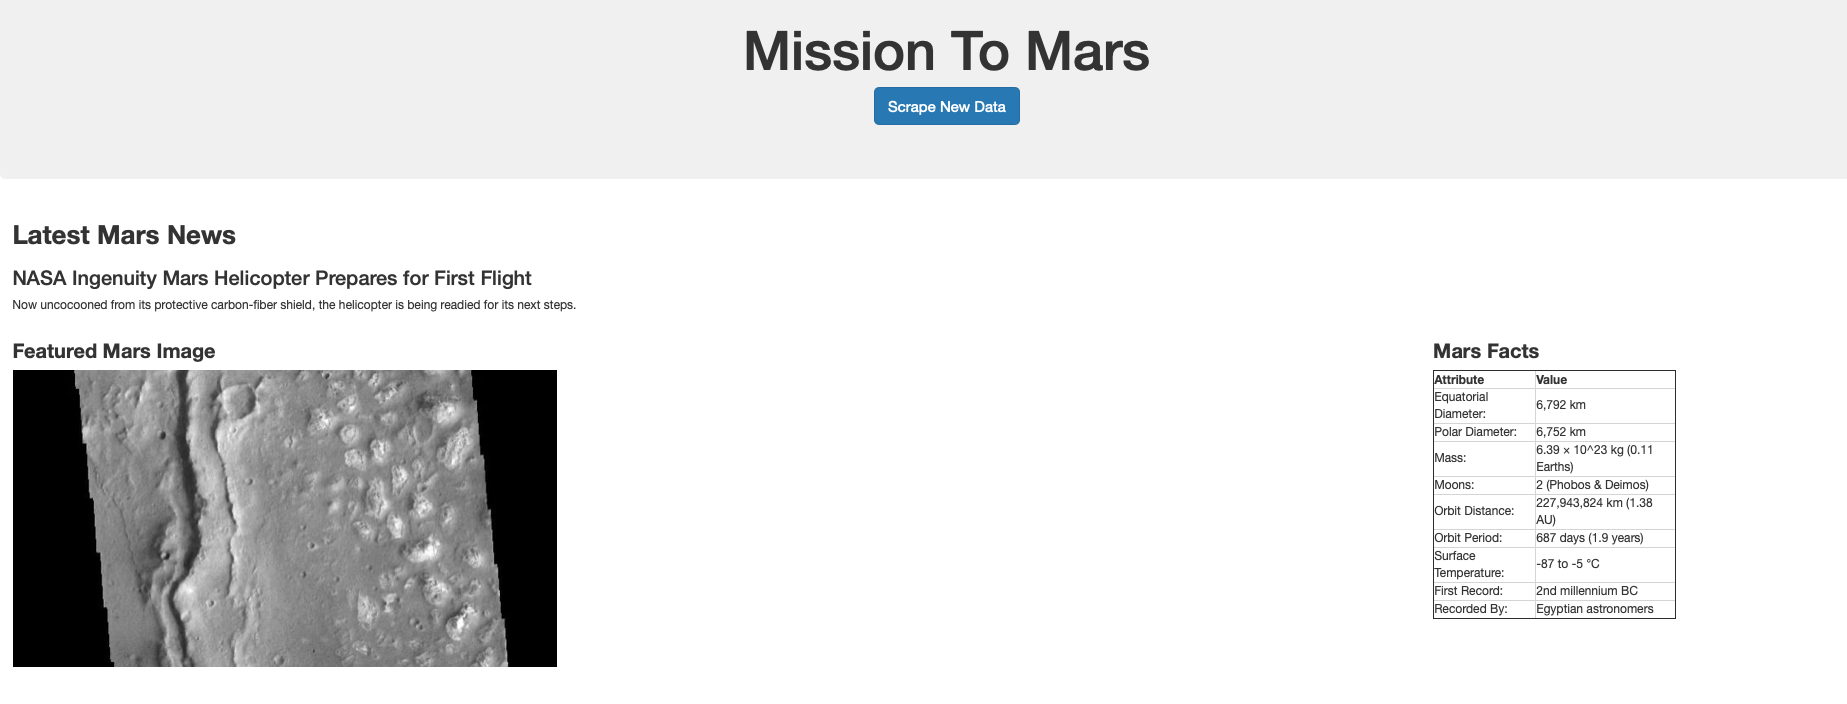
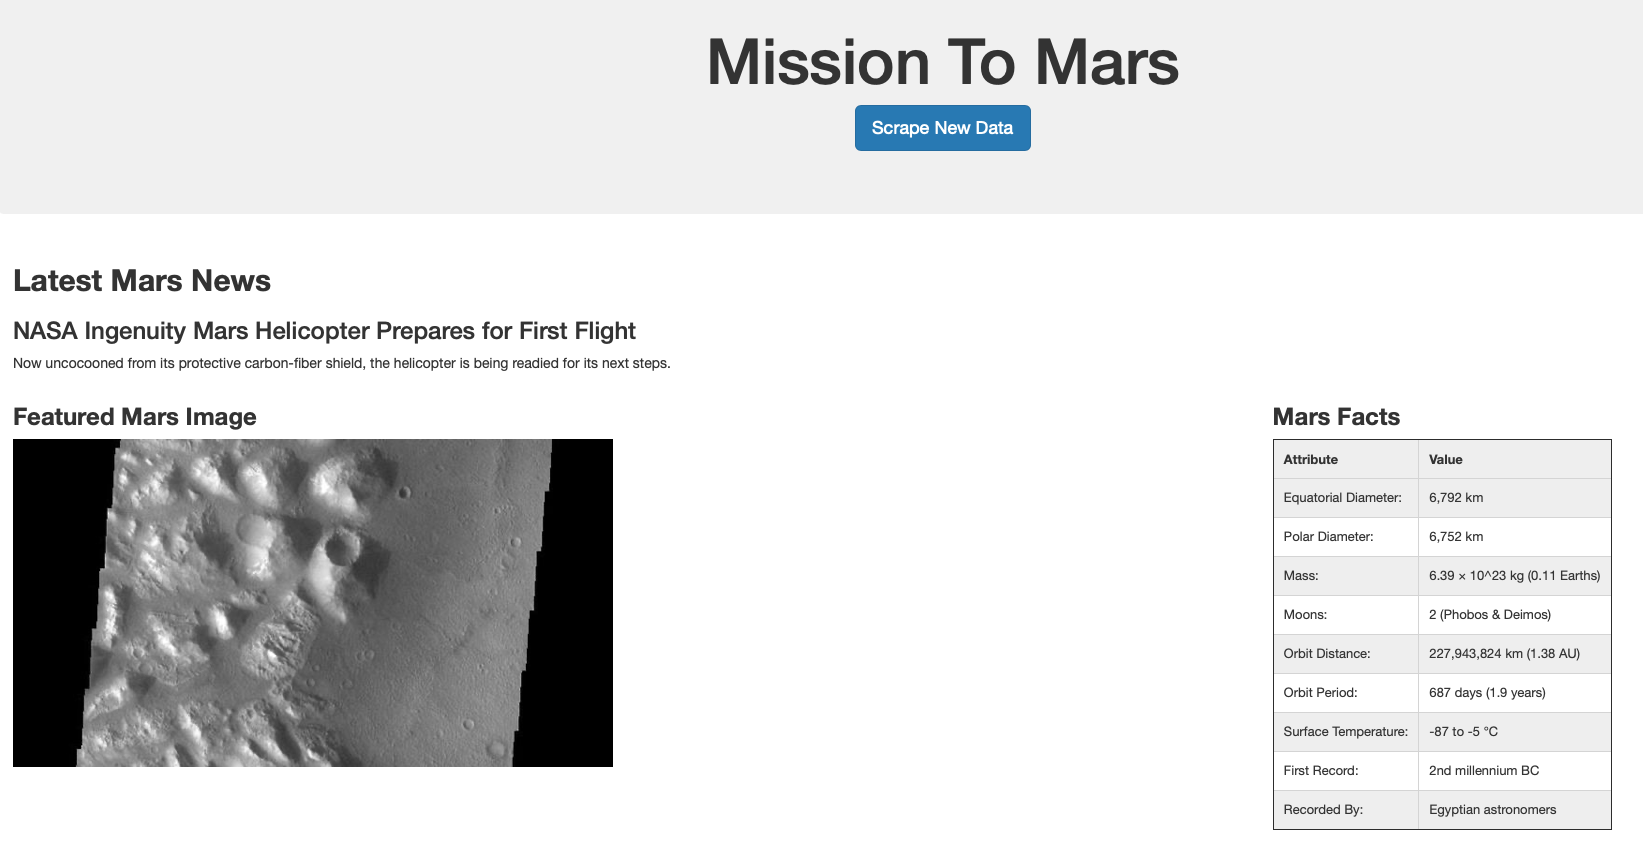
updated styles.css

diff --git a/Missions_to_Mars/templates/index.html b/Missions_to_Mars/templates/index.html
@@ -7,7 +7,36 @@
   <meta http-equiv="X-UA-Compatible" content="ie=edge">
   <title>Mission To Mars</title>
   <link rel="stylesheet" href="https://maxcdn.bootstrapcdn.com/bootstrap/3.3.7/css/bootstrap.min.css">
-  <link rel="stylesheet" href="../static/styles.css">
+  <!-- <link rel="stylesheet" href="../static/styles.css"> -->
+
+  <style>
+
+   table.dataframe.dataframe th, .dataframe td {
+     border: 1;
+     border-bottom: 1px;
+     border-collapse: collapse;
+     text-align: left;
+     padding: 10px;
+     margin-bottom: 40px;
+     font-size: 0.9em;
+     column-width: auto;
+     }
+
+   tr:nth-child(odd)		{ 
+      background-color:#eee; 
+      }
+   tr:nth-child(even)	{ 
+      background-color:#fff; 
+    }
+
+   #image_id {
+    width: 500px;
+    height: 500px;
+    object-fit: fill;
+   }
+  </style>
+
+  
 </head>
 
 <!-- Create Container -->
@@ -30,13 +59,13 @@
     <!-- Featured Image -->
   <div class="container-fluid">
     <div class="row">
-        <div class="col-md-9">
+        <div class="col-md-8">
             <h3><b>Featured Mars Image</b></h3>
-            <img src="{{mars_data.featured_image}}"  alt="Featured Mars Image" id="feature_id">
+            <img src="{{mars_data.featured_image}}"  alt="Featured Mars Image" style="  max-width:600px; max-height: 800px;">
         </div> 
       <!-- Mars HTML Facts Table -->
-        <div class="col-md-3">
-          <div class="card" style= "width: 27rem;">
+        <div class="col-md-4">
+          <div class="card " >
             <div class="card-body">
               <h3><b>Mars Facts</b></h3>
                <div>
@@ -56,10 +85,10 @@
         <div class="row">
           {% for img in mars_data.hemisphere_img %}
           <div class="col-md-6 ">
-            <div class="card" style="size: 25rem;">
+            <div class="card" >
               <img src="{{ img.img_url}}" class="card-img-top" id="image_id" alt="{{ img.title }}">
               <div class="card-body">
-                <p class="card-text"><b> {{ img.title }} </b></p>
+                <h4 class="card-title"> {{ img.title }} </h4>
               </div>
             </div>
           </div>

diff --git a/Missions_to_Mars/static/styles.css b/Missions_to_Mars/static/styles.css
@@ -10,3 +10,18 @@
   object-fit: fill;
   margin-bottom: 10px;
   }
+
+table.dataframe.dataframe th, .dataframe td {
+    border: none;
+    border-bottom: 1px solid #C8C8C8;
+    border-collapse: collapse;
+    text-align:left;
+    padding: 10px;
+    margin-bottom: 40px;
+    font-size: 0.9em;
+  }
+tr:nth-child(odd)		{ 
+  background-color:#eee; 
+}
+tr:nth-child(even)	{ 
+  background-color:#fff; }
